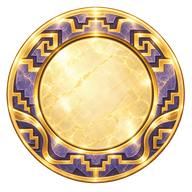
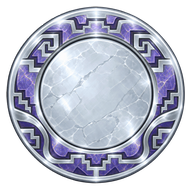
feat(map): bronze and silver cleared nodes in every realm
The one-star and two-star slots get their own art: the cleared stone in
bronze and in silver, on the gold node's canvas and outline, with each
realm's inlays kept. Gold, locked, open and current are unchanged, and the
guardian's ring stays the shipped one.

the_cleared_tiers_are_three_pictures_in_every_realm keeps the three tiers
from collapsing into one picture again.

diff --git a/crates/zkube-codegen/src/skins.rs b/crates/zkube-codegen/src/skins.rs
@@ -627,6 +627,23 @@ mod tests {
         let _ = fs::remove_dir_all(root);
     }
 
+    // A cleared level's tier is told by its picture alone: bronze, silver and
+    // gold are three different pictures in every realm of the shipped skin.
+    #[test]
+    fn the_cleared_tiers_are_three_pictures_in_every_realm() {
+        let skin = Path::new(env!("CARGO_MANIFEST_DIR")).join("../../assets/skins/lumen");
+        for realm in 1..=10 {
+            let tier = |stars: u8| {
+                fs::read(skin.join(format!("realm-{realm}/map-node-done-{stars}.png"))).unwrap()
+            };
+            let (bronze, silver, gold) = (tier(1), tier(2), tier(3));
+            assert!(
+                bronze != silver && silver != gold && bronze != gold,
+                "realm {realm} tells its cleared tiers apart"
+            );
+        }
+    }
+
     #[test]
     fn every_realm_declares_its_own_block_tints_and_light() {
         let root = fixture("realm-tokens");

diff --git a/AGENTS.md b/AGENTS.md
@@ -421,8 +421,9 @@ count. build.py gives each skin UI kit and skin realm its own atlas with the
 authored stretch borders. `every_skin_fills_every_ui_and_realm_slot`,
 `every_realm_declares_its_own_block_tints_and_light`, `every_realm_places_its_key_light_shafts_and_motes`,
 `paintings_are_jpeg_and_everything_with_alpha_is_png`,
-`EverySkinMustCoverEveryRealm`, `test_skin_ui_and_realm_slots_import_into_their_own_atlases_with_borders` and
-`TheMapTellsItsNodesApartAndItsGuardianIsTheBoss` guard the contract. Kit art carries no seam or stray highlight;
+`EverySkinMustCoverEveryRealm`, `test_skin_ui_and_realm_slots_import_into_their_own_atlases_with_borders`,
+`the_cleared_tiers_are_three_pictures_in_every_realm` and `TheMapTellsItsNodesApartAndItsGuardianIsTheBoss` guard
+the contract. Kit art carries no seam or stray highlight;
 `NoSlicedKitPieceShowsASeamAtItsSliceLinesAtTwiceItsSize` and
 `test_no_sliced_kit_piece_carries_a_stray_point_light` check the rendered and authored pixels.
 
